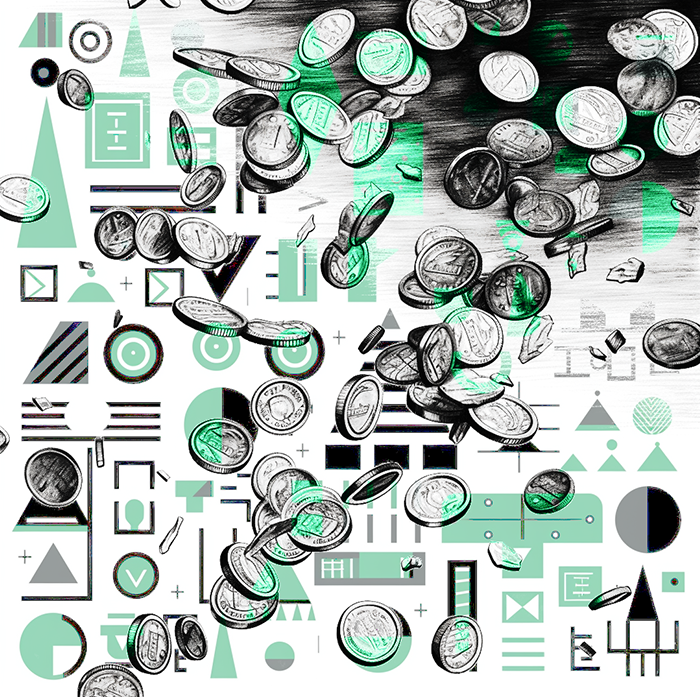
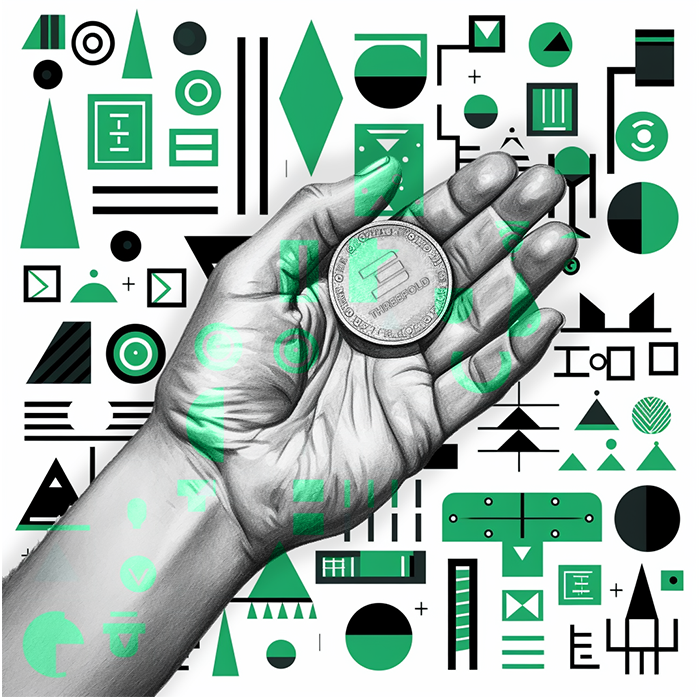
change token img

diff --git a/content/home/index.md b/content/home/index.md
@@ -91,9 +91,9 @@ Your digital life depends on hyperscale data centers controlled by a handful of 
 
 ## Internet Re-Imagined. Internet Re-Built.
 
-### **Over a decade ago, a group of early Internet pioneers, <br>who understood the problems of the centralized Internet model first-hand, <br>came together to re-imagine the infrastructure for an open and decentralized Internet.**
+### Over a decade ago, a group of early Internet pioneers, <br>who understood the problems of the centralized Internet model first-hand, <br>came together to re-imagine the infrastructure for an open and decentralized Internet.
 
-### **But we didn't just imagine it – we built it. Join us in evolving the Internet, together.**
+### But we didn't just imagine it – we built it. Join us in evolving the Internet, together.
 
 {% end %}
 
@@ -235,7 +235,7 @@ We're open-source and decentralized, so we use a token called $TFT to fuel the m
 
 .bgtest{
 
-  background-image: url("home/checker4.png");
+  background-image: url("home/Bg.jpg");
   background-position: center;
   background-repeat: no-repeat;
   background-size: cover;

diff --git a/content/token/index.md b/content/token/index.md
@@ -30,7 +30,7 @@ insert_anchor_links: "left"
 
 {% row(style="header") %}
 
-![Image](token_header_geometric.png#mx-auto)
+![Image](high_token_header_geometric.png#mx-auto)
 
 |||
 
